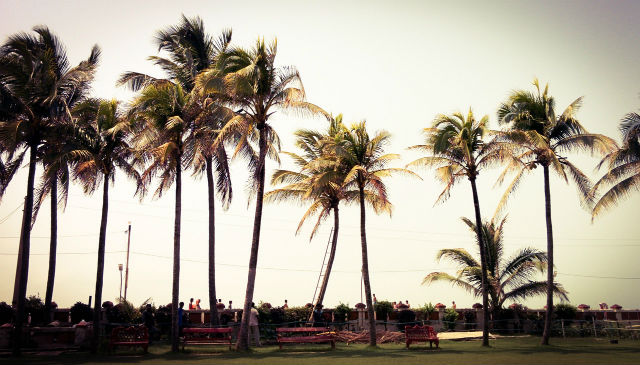
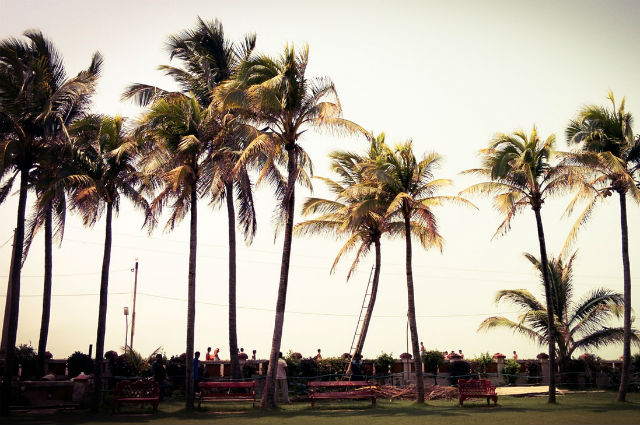
fixed wrong sized images and cleanup
Fixed images that were the wrong sizes. removed dashed borders for gallery that were used for debugging. oops. html and css cleanup.

diff --git a/cit230/assignments/lesson-7/gallery.html b/cit230/assignments/lesson-7/gallery.html
@@ -15,14 +15,16 @@
 </head>
 
 <body>
-  <header class="clearfix">
+    <header>
         <img src="images/WeatherVaneLogo-md.png" alt="The Weather Vane Logo"
              sizes="100vw"
              srcset="images/WeatherVaneLogo-sm.png 600w,
                      images/WeatherVaneLogo-md.png 1024w,
                      images/WeatherVaneLogo-lg.png 1920w">
-      <h1>The&nbsp;Weather&nbsp;Vane</h1>
-      <div class="subheading">Keeping&nbsp;You&nbsp;Informed,&nbsp;Rain&nbsp;or&nbsp;Shine.</div>
+        <section class="headers">
+            <h1>The&nbsp;Weather&nbsp;Vane</h1>
+            <h2>Keeping&nbsp;You&nbsp;Informed,&nbsp;Rain&nbsp;or&nbsp;Shine.</h2>
+        </section>
   </header>
 
   <!-- site navigation using placeholder references for other pages -->

diff --git a/cit230/assignments/lesson-7/styles/small.css b/cit230/assignments/lesson-7/styles/small.css
@@ -6,7 +6,7 @@ body {
 
 header {
     display: flex;
-    direction: row;
+    flex-direction: row;
 }
 
 header img {
@@ -146,7 +146,7 @@ footer .footer-bar {
 .image-gallery {
    display: grid;
    grid-template-columns: 1fr;
-   border: 2px dashed red;
+  /* border: 2px dashed red; */
    justify-content: center;
 
   /* grid-gap: 20px; */
@@ -154,7 +154,7 @@ footer .footer-bar {
 
 .image-gallery figure {
     margin: 0;
-    border: 3px dashed blue;
+    /* border: 3px dashed blue; */
 }
 
 .image-gallery figcaption {
